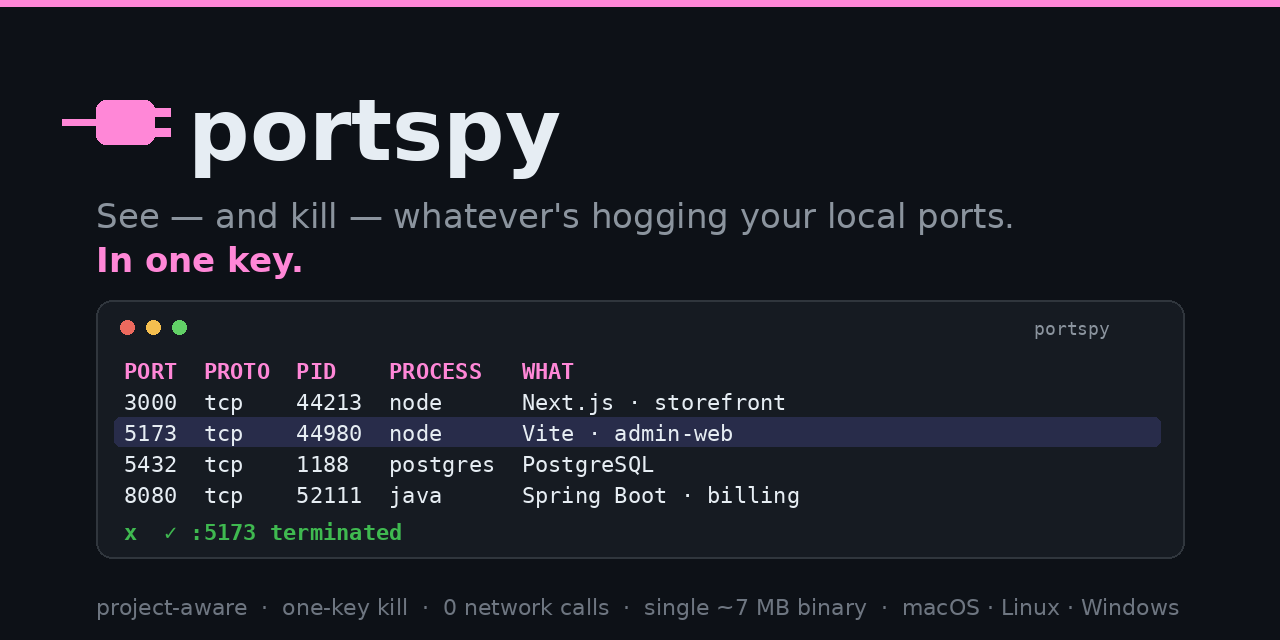
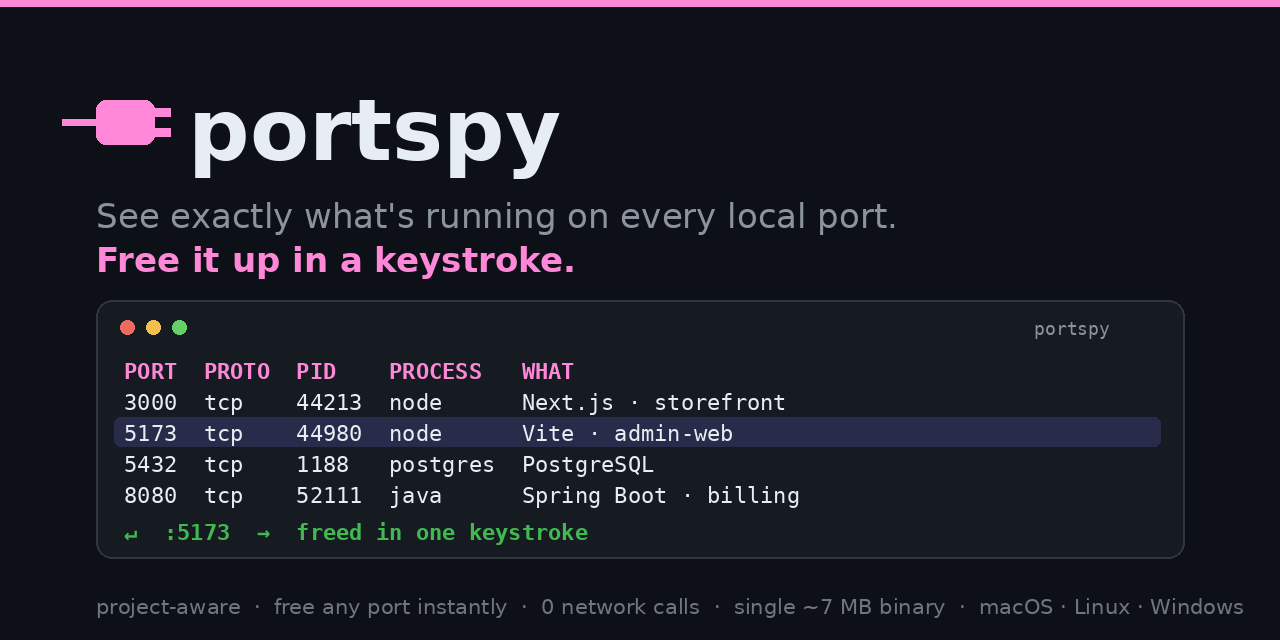
docs: reframe tagline positively (see + free up, drop kill/hogging)

Changed region(s): [[0.0625, 0.3125, 0.7812, 0.4375], [0.0938, 0.9375, 0.9688, 0.9688], [0.0938, 0.8125, 0.4688, 0.8438]]

diff --git a/internal/cli/cli.go b/internal/cli/cli.go
@@ -32,10 +32,10 @@ func newRootCmd() *cobra.Command {
 
 	cmd := &cobra.Command{
 		Use:   "portspy",
-		Short: "See and kill whatever's hogging your local ports",
+		Short: "See what's on every local port — and free it up in one keystroke",
 		Long: `portspy shows everything listening on your local ports — and the
 project, command, start time, and process lineage behind each one — then lets
-you kill it with one key.
+you free up any port with one key.
 
 Run with no arguments to open the interactive TUI. Use the subcommands for
 scripting:

diff --git a/cmd/portspy/main.go b/cmd/portspy/main.go
@@ -1,5 +1,5 @@
 // Command portspy shows what is listening on your local ports — with the
-// project and command behind each — and kills it with one key.
+// project and command behind each — and frees the port with one key.
 package main
 
 import (

diff --git a/internal/ports/format.go b/internal/ports/format.go
@@ -7,7 +7,7 @@ import (
 
 // HumanDuration renders a duration compactly for a status table: "3s", "5m",
 // "2h", "4d". It is intentionally coarse — single-unit precision is enough to
-// answer "how long has this been hogging the port?".
+// answer "how long has this been holding the port?".
 func HumanDuration(d time.Duration) string {
 	if d <= 0 {
 		return "—"

diff --git a/README.md b/README.md
@@ -2,12 +2,12 @@
 
 # 🔌 portspy
 
-### See — and kill — whatever's hogging your local ports. In one key.
+### See exactly what's running on every local port — and free it up in a keystroke.
 
 `portspy` is a fast terminal UI that lists everything listening on your machine,
 tells you **what it actually is** (the project, the dev server, the command, how
-long it's been up), and lets you kill it with a single keypress. The *"why is
-:3000 taken AGAIN?"* problem, solved.
+long it's been up), and lets you free up any port with a single keypress. The
+*"why is :3000 taken AGAIN?"* problem, solved.
 
 [![CI](https://github.com/agenticraptor/portspy/actions/workflows/ci.yml/badge.svg)](https://github.com/agenticraptor/portspy/actions/workflows/ci.yml)
 [![Release](https://img.shields.io/github/v/release/agenticraptor/portspy?sort=semver)](https://github.com/agenticraptor/portspy/releases)
@@ -26,7 +26,7 @@ long it's been up), and lets you kill it with a single keypress. The *"why is
 > ```
 
 <p align="center">
-  <img src="docs/demo.gif" alt="portspy — see and kill whatever's hogging your local ports, in one key" width="820">
+  <img src="docs/demo.gif" alt="portspy — see what's running on every local port and free it up in a keystroke" width="820">
 </p>
 
 ```text